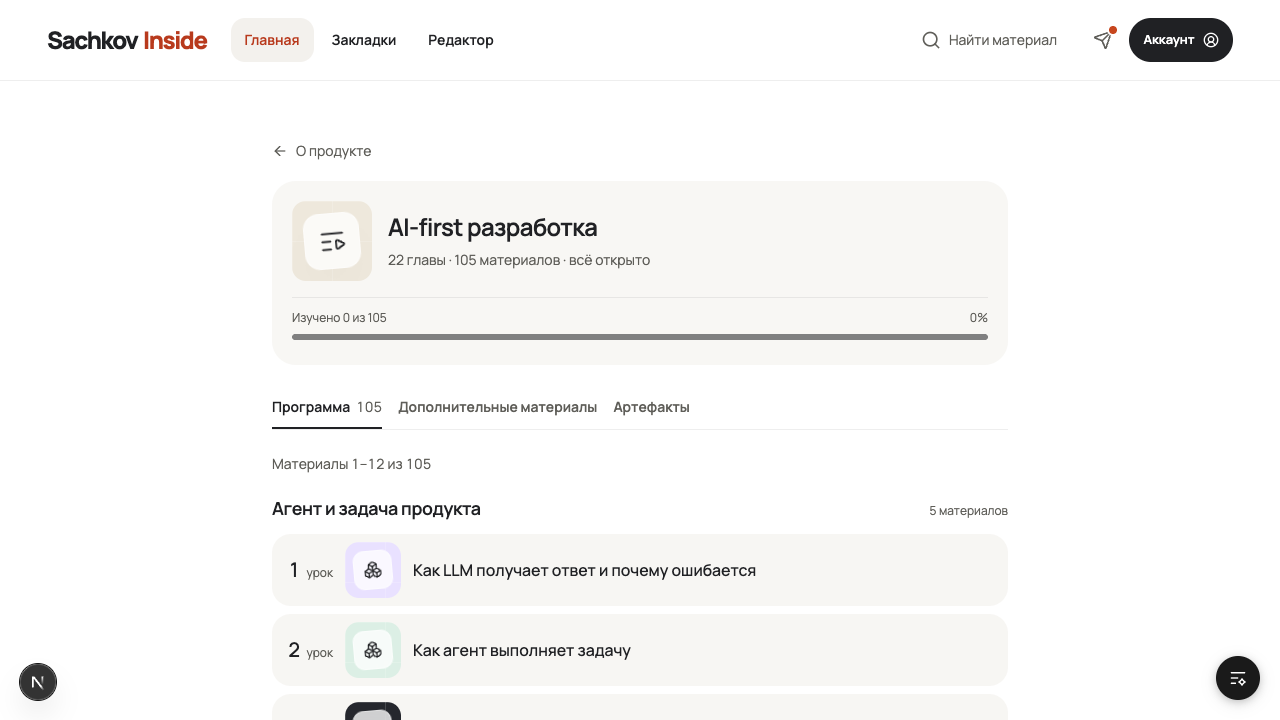
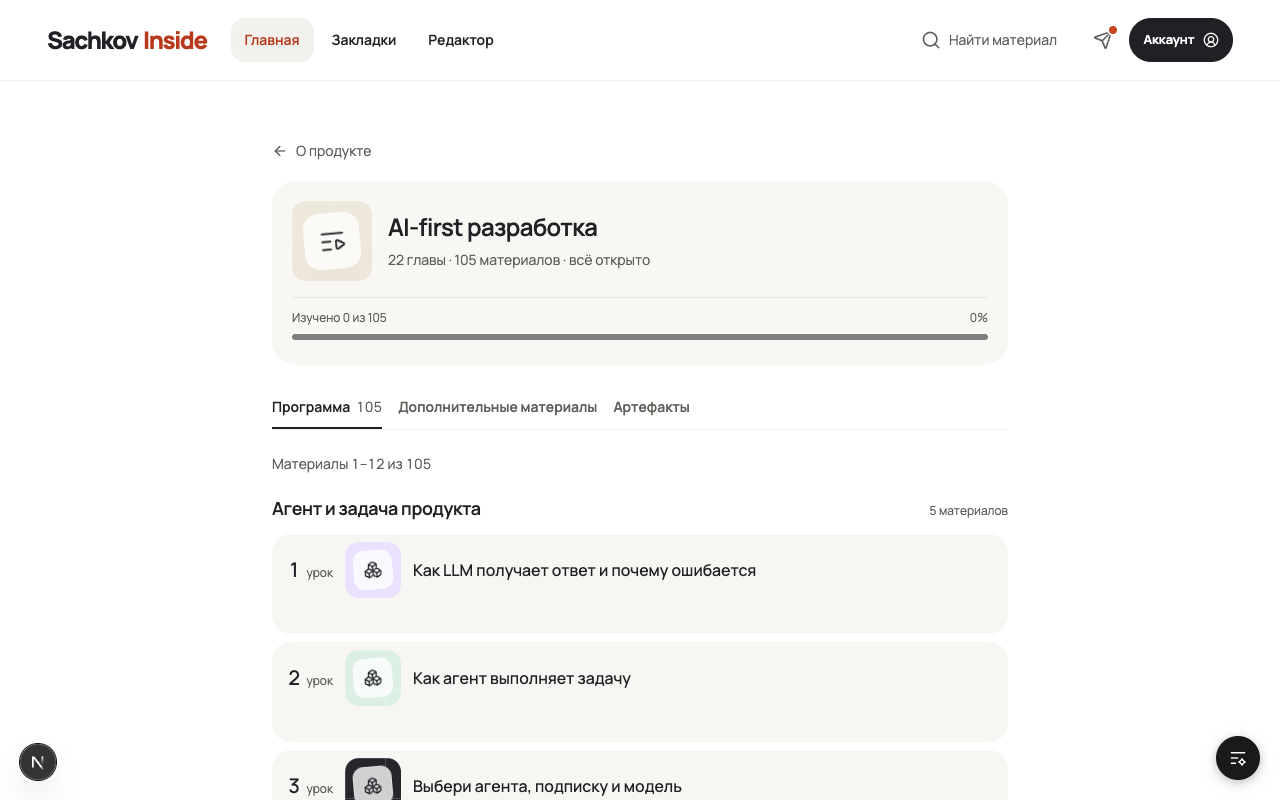
fix: keep programme cards stable while progress resolves (#660)

diff --git a/apps/web/src/_pages/library-discovery/ui/series-journey.stories.tsx b/apps/web/src/_pages/library-discovery/ui/series-journey.stories.tsx
@@ -220,11 +220,13 @@ export const OnlyPlannedChapters: Story = {
 
 export const ShortSeries: Story = { args: { result: { ...result, items: materials.slice(0, 2) }, learning: { kind: "ready", read: 0, total: 2, continuation: null } }, play: async ({ canvasElement }) => { await expect(within(canvasElement).queryByRole("navigation", { name: "Страницы маршрута" })).not.toBeInTheDocument(); } };
 
+const progressResume = { ...resume, materialSlug: "series-material-2" };
+
 function ProgressResolution({ longTitle = false }: { longTitle?: boolean }) {
   const [ready, setReady] = useState(false);
   return <>
     <button onClick={() => { setReady(true); }} type="button">Получить прогресс (проверка)</button>
-    <GuideProgrammeView result={longTitle ? { ...result, items: materials.map((item) => item.slug === resume.materialSlug ? { ...item, title: "Настройка непрерывной интеграции приложения" } : item) } : result} learning={ready ? { kind: "ready", read: 8, total: 24, continuation: resume } : { kind: "loading" }} />
+    <GuideProgrammeView result={longTitle ? { ...result, items: materials.map((item) => item.slug === progressResume.materialSlug ? { ...item, title: "Настройка непрерывной интеграции приложения" } : item) } : result} learning={ready ? { kind: "ready", read: 8, total: 24, continuation: progressResume } : { kind: "loading" }} />
   </>;
 }
 export const LoadingPreservesRoutePosition: Story = {
@@ -232,10 +234,18 @@ export const LoadingPreservesRoutePosition: Story = {
   globals: { viewport: { value: "mobile390", isRotated: false } },
   play: async ({ canvasElement }) => {
     const canvas = within(canvasElement);
+    const currentCard = canvasElement.querySelector<HTMLElement>(`[data-route-material="${progressResume.materialSlug}"] article`);
+    const nextLesson = canvasElement.querySelector<HTMLElement>('[data-route-material="series-material-3"]');
+    if (currentCard === null || nextLesson === null) throw new Error("Missing continuation or following lesson");
+    const currentHeight = currentCard.getBoundingClientRect().height;
+    const nextTop = nextLesson.getBoundingClientRect().top;
     const top = canvas.getByRole("list", { name: "Материалы продукта" }).getBoundingClientRect().top;
     // Шапка резервирует место для прогресса, чтобы маршрут не прыгал после загрузки.
     await userEvent.click(canvas.getByRole("button", { name: "Получить прогресс (проверка)" }));
     await expect(Math.abs(canvas.getByRole("list", { name: "Материалы продукта" }).getBoundingClientRect().top - top)).toBeLessThan(1);
+    await expect(within(currentCard).getByText("Продолжить", { exact: true })).toBeVisible();
+    await expect(Math.abs(currentCard.getBoundingClientRect().height - currentHeight)).toBeLessThan(1);
+    await expect(Math.abs(nextLesson.getBoundingClientRect().top - nextTop)).toBeLessThan(1);
   },
 };
 export const DesktopLoadingPreservesRoutePosition: Story = { ...LoadingPreservesRoutePosition, globals: { viewport: { value: "desktop1440", isRotated: false } } };

diff --git a/apps/web/src/_pages/library-discovery/ui/series-journey.client.tsx b/apps/web/src/_pages/library-discovery/ui/series-journey.client.tsx
@@ -133,8 +133,8 @@ export function SeriesJourney({ artifacts = { kind: "ready", artifacts: [] }, re
       {parts.length > 1 ? <p aria-live="polite" className="sr-only">{part?.label}: {part?.kind === "artifacts" ? artifactsInWords(part.artifacts.length) : formatMaterialCount(visible.length)}</p> : null}
       <div aria-labelledby={part === undefined ? undefined : `series-part-${part.id}`} id={`series-part-panel-${part?.id ?? "programme"}`} role={parts.length > 1 ? "tabpanel" : undefined} tabIndex={parts.length > 1 ? 0 : undefined} className="focus-visible:outline-2 focus-visible:outline-ring">
         {part?.kind === "artifacts" ? <div className="mt-5">{artifacts.kind === "unavailable" ? <p className="py-5 text-sm leading-6 text-muted-foreground" role="status">Артефакты сейчас не загрузились. Попробуй открыть этот раздел позже.</p> : part.artifacts.length === 0 || part.guideId === undefined ? <p className="py-5 text-sm leading-6 text-muted-foreground">Здесь появятся файлы, шаблоны и инструменты для работы над проектом.</p> : <ReaderGuideArtifacts artifacts={part.artifacts} guideId={part.guideId} />}</div> : <>
-        {part?.id === "programme" && visible.length === 0 && part.chapters.length === 0 ? <p className="py-10 text-sm leading-6 text-muted-foreground">Программа готовится. Здесь появятся главы и уроки практикума.</p> : null}
-        {part?.id === "supplementary" && visible.length === 0 ? <p className="py-10 text-sm leading-6 text-muted-foreground">Здесь появятся дополнительные разборы и полезные материалы к практикуму.</p> : null}
+        {part?.id === "programme" && visible.length === 0 && part.chapters.length === 0 ? <p className="py-10 text-sm leading-6 text-muted-foreground">Программа готовится. Здесь появятся главы и уроки продукта.</p> : null}
+        {part?.id === "supplementary" && visible.length === 0 ? <p className="py-10 text-sm leading-6 text-muted-foreground">Здесь появятся дополнительные разборы и полезные материалы к продукту.</p> : null}
         {page.count > 1 ? <p aria-live="polite" className="mt-6 text-sm tabular-nums text-muted-foreground">Материалы {page.offset + 1}–{page.offset + page.items.length} из {visible.length}</p> : null}
         {items.some((item) => item.availability === "unavailable") ? <Button className="mt-4 h-auto min-h-11 max-w-full whitespace-normal" onClick={() => { router.refresh(); }} variant="outline"><RefreshCw aria-hidden="true" />Повторить проверку доступа</Button> : null}
         <div className="mt-5 grid gap-6">

diff --git a/apps/web/src/entities/material/ui/material-card.tsx b/apps/web/src/entities/material/ui/material-card.tsx
@@ -184,7 +184,6 @@ function MaterialRow({
   readonly resumeLabel: string | undefined;
   readonly returnHref?: Route;
   readonly rowAnnotation?: React.ReactNode;
-  readonly seriesOrdinal?: number;
   readonly readingStatus?: React.ReactNode;
 }) {
   const Heading = headingLevel;
@@ -281,7 +280,9 @@ function SeriesMaterialRow({ headingLevel: Heading, material, readerHref, resume
         {locked ? <><LockKeyhole aria-hidden="true" className="size-4" /><span className="sr-only">Нужен доступ</span></> : unavailable ? <span className="sr-only">Доступ временно не определён</span> : readingStatus}
       </span>
     </div>
-    {resumeLabel === undefined ? null : <span className="mt-3 flex min-h-10 items-center justify-center rounded-lg bg-primary px-3 py-2 text-sm font-semibold text-primary-foreground">Продолжить</span>}
+    <span className="mt-1 flex h-6 items-center justify-end text-sm font-semibold text-action" data-series-continuation-slot>
+      {resumeLabel === undefined ? null : "Продолжить"}
+    </span>
   </article>;
 }
 

diff --git a/docs/specifications/platform-v1.md b/docs/specifications/platform-v1.md
@@ -458,11 +458,11 @@ membership главу не восстанавливает.
 листает маршрут и видит главы прямо в нём. Тем же решением состав делится на переключаемые части —
 «Программа» содержит главы, отдельная часть содержит материалы вне глав, — и части остаются
 расширяемым списком, куда добавляются артефакты и дополнительные материалы. Нумерация материалов
-сплошная внутри выбранной части. Руководство без глав показывает один неразделённый список без
-переключателя. Постранично адресуется только выбранная часть; переключение части начинает её с
+сплошная внутри выбранной части. Руководство без глав показывает неразделённый список внутри вкладки «Программа»;
+остальные вкладки сохраняют свои пустые состояния. Постранично адресуется только выбранная часть; переключение части начинает её с
 первой страницы.
 
-Глава в маршруте представлена только служебной строкой «Глава N из M» и своим названием. Глава без
+Глава в маршруте представлена своим названием и количеством материалов, без служебного номера. Глава без
 опубликованных материалов остаётся видимой и отмечена как готовящаяся, в том числе когда в
 руководстве ещё нет ни одного опубликованного материала. Решением владельца 10.09.2026 авторское
 описание главы читателю не выводится и не входит в публичный каталог: объяснение главы становится
@@ -568,8 +568,8 @@ redirect и cache policy остаются за backend.
 руководства: значение принадлежит уроку и не должно различаться от руководства к руководству. Оба
 необязательны. Черновик принимает от нуля до четырёх пунктов `outcomes`, чтобы автосохранение не
 отказывало автору на втором пункте; публикация требует либо ноль пунктов, либо два–четыре и
-возвращает `outcomes_too_few`. Значения показываются в начале урока до основного текста и в
-программе рядом с названием шага; их отсутствие страницу не ломает и не дублируется в теле.
+возвращает `outcomes_too_few`. Значения показываются в начале урока до основного текста; компактная карточка программы
+их не дублирует. Их отсутствие страницу не ломает и не дублируется в теле.
 
 ## Application flows
 

diff --git a/docs/evidence/issue-660/README.md b/docs/evidence/issue-660/README.md
@@ -10,7 +10,7 @@ Restored the presentation from that working copy: narrow header, product title/c
 progress, persistent section tabs, unnumbered chapter headings, compact square lesson
 previews, internal lesson numbers, read markers and continuation on the current lesson.
 Kept the current purchaseInvitation/ProgrammePurchase interface and disabled-sale behaviour.
-The original checkout was read only. No imported Material IDs, source files or access changed.
+The initial restoration read the original checkout without changing it; the later owner-authorized reconciliation preserved and committed it as documented below. No imported Material IDs, source files or access changed.
 
 Live screenshots use the actual imported AI-first programme (22 chapters, 105 main Materials),
 with the isolated synthetic owner identity. They verify rendering, not buyer entitlements.
@@ -44,3 +44,11 @@ The integration branch starts at main `4c84a549`; the authoring importer itself 
 
 The original snapshot is a preservation receipt, not an assertion that each historical WIP
 choice should override later accepted main behaviour. No production or sales activation is included.
+
+## Verification after review
+
+Both Standards and Spec reviews pass against main `4c84a549` after closing the findings.
+The lesson card reserves the continuation caption while progress loads; the Storybook
+regression verifies stable card height and following-card position at desktop, mobile and
+tablet widths. All 51 focused scenarios pass. Full `pnpm check`, follow-up lint and
+`pnpm docs:check` pass locally. The screenshots above show the final card geometry.
